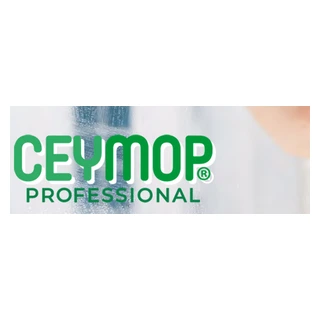
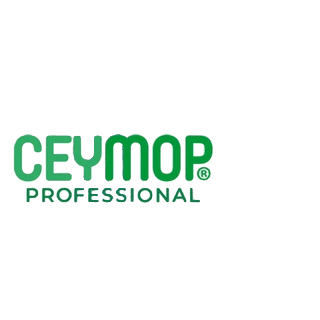
Optimize homepage images and bound business uploads

Changed region(s): [[0.0312, 0.3125, 0.9688, 0.6875], [0.0938, 0.5, 0.1562, 0.5312], [0.0312, 0.5312, 0.0625, 0.5625]]

diff --git a/public/index.html b/public/index.html
@@ -38,7 +38,7 @@
         </div>
         <div class="hero-visual">
           <figure class="hero-frame">
-            <img src="/img/home/refresh-hero.webp" width="1448" height="1086" fetchpriority="high" alt="Katalogdan temizlik, kağıt, aparat, sarf, gıda ve kırtasiye ürünlerinden bir seçki">
+            <img src="/img/home/refresh-hero.webp" srcset="/img/home/refresh-hero-640.webp 640w, /img/home/refresh-hero.webp 1448w" sizes="(max-width: 900px) 92vw, 54vw" width="1448" height="1086" fetchpriority="high" alt="Katalogdan temizlik, kağıt, aparat, sarf, gıda ve kırtasiye ürünlerinden bir seçki">
           </figure>
         </div>
       </div>
@@ -61,7 +61,7 @@
               <a class="btn contact-story-cta" href="https://wa.me/905307161877?text=Merhaba%2C%20sitenizde%20bulamad%C4%B1%C4%9F%C4%B1m%20bir%20%C3%BCr%C3%BCn%20i%C3%A7in%20ara%C5%9Ft%C4%B1rma%20ve%20tedarik%20deste%C4%9Fi%20almak%20istiyorum.%20%C3%9Cr%C3%BCn%20ad%C4%B1n%C4%B1%20veya%20foto%C4%9Fraf%C4%B1n%C4%B1%20payla%C5%9Faca%C4%9F%C4%B1m.">Aradığım Ürünü Paylaşayım <span aria-hidden="true">↗</span></a>
               <p class="contact-story-note">WhatsApp açılır; fotoğrafınızı veya ürün adını oradan paylaşabilirsiniz.</p>
             </div>
-            <div class="contact-story-art"><img src="/img/home/story-research.webp" width="1200" height="900" loading="lazy" alt="Ürün fotoğrafı içeren telefon, ürün kartları ve araştırmayı simgeleyen büyüteç"></div>
+            <div class="contact-story-art"><img src="/img/home/story-research.webp" srcset="/img/home/story-research-640.webp 640w, /img/home/story-research.webp 1200w" sizes="(max-width: 640px) 92vw, (max-width: 1000px) 46vw, 380px" width="1200" height="900" loading="lazy" alt="Ürün fotoğrafı içeren telefon, ürün kartları ve araştırmayı simgeleyen büyüteç"></div>
           </article>
           <article class="contact-story" data-story aria-roledescription="slayt" aria-label="2 / 3: İhtiyaç listesi">
             <div class="contact-story-copy">
@@ -71,7 +71,7 @@
               <a class="btn contact-story-cta" href="https://wa.me/905307161877?text=Merhaba%2C%20i%C5%9Fletmemizin%20ihtiya%C3%A7%20listesini%20payla%C5%9Fmak%20ve%20uygun%20%C3%BCr%C3%BCn%20se%C3%A7enekleri%20i%C3%A7in%20teklif%20almak%20istiyorum.">Listemi WhatsApp’tan Göndereyim <span aria-hidden="true">↗</span></a>
               <p class="contact-story-note">WhatsApp açılır; listenizi mesaj veya dosya olarak paylaşabilirsiniz.</p>
             </div>
-            <div class="contact-story-art"><img src="/img/home/story-list.webp" width="1200" height="900" loading="lazy" alt="İhtiyaç listesini simgeleyen pano ve temizlik, gıda, kırtasiye ürünleri"></div>
+            <div class="contact-story-art"><img src="/img/home/story-list.webp" srcset="/img/home/story-list-640.webp 640w, /img/home/story-list.webp 1200w" sizes="(max-width: 640px) 92vw, (max-width: 1000px) 46vw, 380px" width="1200" height="900" loading="lazy" alt="İhtiyaç listesini simgeleyen pano ve temizlik, gıda, kırtasiye ürünleri"></div>
           </article>
           <article class="contact-story" data-story aria-roledescription="slayt" aria-label="3 / 3: Ürün seçimi">
             <div class="contact-story-copy">
@@ -81,7 +81,7 @@
               <a class="btn contact-story-cta" href="/siparis">İhtiyacımı Birlikte Belirleyelim <span aria-hidden="true">↗</span></a>
               <p class="contact-story-note">Firma ve telefon bilginiz yeterli.</p>
             </div>
-            <div class="contact-story-art"><img src="/img/home/story-guidance.webp" width="1200" height="900" loading="lazy" alt="Tablette ürün seçeneklerini işaret eden el ve görüşmeyi simgeleyen konuşma balonları"></div>
+            <div class="contact-story-art"><img src="/img/home/story-guidance.webp" srcset="/img/home/story-guidance-640.webp 640w, /img/home/story-guidance.webp 1200w" sizes="(max-width: 640px) 92vw, (max-width: 1000px) 46vw, 380px" width="1200" height="900" loading="lazy" alt="Tablette ürün seçeneklerini işaret eden el ve görüşmeyi simgeleyen konuşma balonları"></div>
           </article>
           </div>
           <div class="contact-story-controls" data-story-controls hidden>
@@ -110,27 +110,27 @@
         </header>
         <ul class="home-cat-cards">
           <li><a href="/urunler?g=A">
-            <img class="home-cat-photo" src="/img/home/refresh-kagit.webp" alt="Temizlik Kağıtları ürün seçkisi" width="960" height="640" loading="lazy">
+            <img class="home-cat-photo" src="/img/home/refresh-kagit.webp" srcset="/img/home/refresh-kagit-640.webp 640w, /img/home/refresh-kagit.webp 1024w" sizes="(max-width: 640px) 92vw, (max-width: 1000px) 46vw, 380px" alt="Temizlik Kağıtları ürün seçkisi" width="960" height="640" loading="lazy">
             <div class="home-cat-copy"><h3>Temizlik Kağıtları</h3><p>Havlu, peçete ve tuvalet kağıtları.</p><span>Ürünleri incele <span aria-hidden="true">↗</span></span></div>
           </a></li>
           <li><a href="/urunler?g=B">
-            <img class="home-cat-photo" src="/img/home/refresh-sivi.webp" alt="Sıvı Temizlik Ürünleri ürün seçkisi" width="960" height="640" loading="lazy">
+            <img class="home-cat-photo" src="/img/home/refresh-sivi.webp" srcset="/img/home/refresh-sivi-640.webp 640w, /img/home/refresh-sivi.webp 1024w" sizes="(max-width: 640px) 92vw, (max-width: 1000px) 46vw, 380px" alt="Sıvı Temizlik Ürünleri ürün seçkisi" width="960" height="640" loading="lazy">
             <div class="home-cat-copy"><h3>Sıvı Temizlik Ürünleri</h3><p>Günlük ve endüstriyel temizlik ihtiyaçları.</p><span>Ürünleri incele <span aria-hidden="true">↗</span></span></div>
           </a></li>
           <li><a href="/urunler?g=C">
-            <img class="home-cat-photo" src="/img/home/refresh-aparat.webp" alt="Aparatlar ve Ekipmanlar ürün seçkisi" width="960" height="640" loading="lazy">
+            <img class="home-cat-photo" src="/img/home/refresh-aparat.webp" srcset="/img/home/refresh-aparat-640.webp 640w, /img/home/refresh-aparat.webp 1024w" sizes="(max-width: 640px) 92vw, (max-width: 1000px) 46vw, 380px" alt="Aparatlar ve Ekipmanlar ürün seçkisi" width="960" height="640" loading="lazy">
             <div class="home-cat-copy"><h3>Aparatlar ve Ekipmanlar</h3><p>Dispenser, mop aparatları ve çöp kovaları.</p><span>Ürünleri incele <span aria-hidden="true">↗</span></span></div>
           </a></li>
           <li><a href="/urunler?g=D">
-            <img class="home-cat-photo" src="/img/home/refresh-sarf.webp" alt="Temizlik Sarf Ürünleri ürün seçkisi" width="960" height="640" loading="lazy">
+            <img class="home-cat-photo" src="/img/home/refresh-sarf.webp" srcset="/img/home/refresh-sarf-640.webp 640w, /img/home/refresh-sarf.webp 1024w" sizes="(max-width: 640px) 92vw, (max-width: 1000px) 46vw, 380px" alt="Temizlik Sarf Ürünleri ürün seçkisi" width="960" height="640" loading="lazy">
             <div class="home-cat-copy"><h3>Temizlik Sarf Ürünleri</h3><p>Çöp poşetleri, sarf ve kullan-at ürünleri.</p><span>Ürünleri incele <span aria-hidden="true">↗</span></span></div>
           </a></li>
           <li><a href="/urunler?g=E">
-            <img class="home-cat-photo" src="/img/home/refresh-gida.webp" alt="Gıda ve Atıştırmalıklar ürün seçkisi" width="960" height="640" loading="lazy">
+            <img class="home-cat-photo" src="/img/home/refresh-gida.webp" srcset="/img/home/refresh-gida-640.webp 640w, /img/home/refresh-gida.webp 1024w" sizes="(max-width: 640px) 92vw, (max-width: 1000px) 46vw, 380px" alt="Gıda ve Atıştırmalıklar ürün seçkisi" width="960" height="640" loading="lazy">
             <div class="home-cat-copy"><h3>Gıda ve Atıştırmalıklar</h3><p>Çay, kahve, içecek ve ikramlıklar.</p><span>Ürünleri incele <span aria-hidden="true">↗</span></span></div>
           </a></li>
           <li><a href="/urunler?g=F">
-            <img class="home-cat-photo" src="/img/home/refresh-ofis.webp" alt="Kırtasiye ve Ofis Ürünleri ürün seçkisi" width="960" height="640" loading="lazy">
+            <img class="home-cat-photo" src="/img/home/refresh-ofis.webp" srcset="/img/home/refresh-ofis-640.webp 640w, /img/home/refresh-ofis.webp 1024w" sizes="(max-width: 640px) 92vw, (max-width: 1000px) 46vw, 380px" alt="Kırtasiye ve Ofis Ürünleri ürün seçkisi" width="960" height="640" loading="lazy">
             <div class="home-cat-copy"><h3>Kırtasiye ve Ofis Ürünleri</h3><p>Yazı, dosyalama ve masaüstü gereçleri.</p><span>Ürünleri incele <span aria-hidden="true">↗</span></span></div>
           </a></li>
         </ul>
@@ -165,7 +165,7 @@
         <ul class="home-sector-cards">
           <li>
             <a href="/sektorler#konaklama">
-              <img class="home-sector-photo" src="/img/home/sektor-otel.webp" alt="" width="1024" height="765" loading="lazy">
+              <img class="home-sector-photo" src="/img/home/sektor-otel.webp" srcset="/img/home/sektor-otel-640.webp 640w, /img/home/sektor-otel.webp 1024w" sizes="(max-width: 640px) 92vw, (max-width: 1000px) 46vw, 380px" alt="" width="1024" height="765" loading="lazy">
               <b>Oteller</b>
               <p>Oda, ortak alan ve ikram ihtiyaçları.</p>
               <span>Çözümleri İncele</span>
@@ -173,7 +173,7 @@
           </li>
           <li>
             <a href="/sektorler#tesis">
-              <img class="home-sector-photo" src="/img/home/sektor-tesis.webp" alt="" width="1024" height="765" loading="lazy">
+              <img class="home-sector-photo" src="/img/home/sektor-tesis.webp" srcset="/img/home/sektor-tesis-640.webp 640w, /img/home/sektor-tesis.webp 1024w" sizes="(max-width: 640px) 92vw, (max-width: 1000px) 46vw, 380px" alt="" width="1024" height="765" loading="lazy">
               <b>Site ve Tesis Yönetimi</b>
               <p>Ortak alan temizliği, sarf ve ekipman.</p>
               <span>Çözümleri İncele</span>
@@ -181,7 +181,7 @@
           </li>
           <li>
             <a href="/sektorler#ofis">
-              <img class="home-sector-photo" src="/img/home/sektor-ofis.webp" alt="" width="1024" height="765" loading="lazy">
+              <img class="home-sector-photo" src="/img/home/sektor-ofis.webp" srcset="/img/home/sektor-ofis-640.webp 640w, /img/home/sektor-ofis.webp 1024w" sizes="(max-width: 640px) 92vw, (max-width: 1000px) 46vw, 380px" alt="" width="1024" height="765" loading="lazy">
               <b>Ofisler</b>
               <p>Çay, kahve, kırtasiye ve hijyen ürünleri.</p>
               <span>Çözümleri İncele</span>
@@ -189,7 +189,7 @@
           </li>
           <li>
             <a href="/sektorler#klinik">
-              <img class="home-sector-photo" src="/img/home/sektor-klinik.webp" alt="" width="1024" height="765" loading="lazy">
+              <img class="home-sector-photo" src="/img/home/sektor-klinik.webp" srcset="/img/home/sektor-klinik-640.webp 640w, /img/home/sektor-klinik.webp 1024w" sizes="(max-width: 640px) 92vw, (max-width: 1000px) 46vw, 380px" alt="" width="1024" height="765" loading="lazy">
               <b>Hastaneler ve Klinikler</b>
               <p>Genel alan temizliği ve günlük sarf ürünleri.</p>
               <span>Çözümleri İncele</span>
@@ -197,7 +197,7 @@
           </li>
           <li>
             <a href="/sektorler#egitim">
-              <img class="home-sector-photo" src="/img/home/sektor-okul.webp" alt="" width="1024" height="765" loading="lazy">
+              <img class="home-sector-photo" src="/img/home/sektor-okul.webp" srcset="/img/home/sektor-okul-640.webp 640w, /img/home/sektor-okul.webp 1024w" sizes="(max-width: 640px) 92vw, (max-width: 1000px) 46vw, 380px" alt="" width="1024" height="765" loading="lazy">
               <b>Okullar</b>
               <p>Sınıf, idari ofis ve ortak alan ihtiyaçları.</p>
               <span>Çözümleri İncele</span>
@@ -205,7 +205,7 @@
           </li>
           <li>
             <a href="/sektorler#kafe">
-              <img class="home-sector-photo" src="/img/home/sektor-cafe.webp" alt="" width="1024" height="765" loading="lazy">
+              <img class="home-sector-photo" src="/img/home/sektor-cafe.webp" srcset="/img/home/sektor-cafe-640.webp 640w, /img/home/sektor-cafe.webp 1024w" sizes="(max-width: 640px) 92vw, (max-width: 1000px) 46vw, 380px" alt="" width="1024" height="765" loading="lazy">
               <b>Kafe ve Restoranlar</b>
               <p>Servis, kullan-at ve temizlik ürünleri.</p>
               <span>Çözümleri İncele</span>
@@ -297,7 +297,7 @@
   <footer class="foot" data-foot></footer>
   <script src="/interest.js?v=69"></script>
   <script src="/metrics.js?v=1"></script>
-  <script src="/site.js?v=141"></script>
+  <script src="/site.js?v=142"></script>
   <script src="/home-refresh.js?v=3"></script>
   <script>FerraInterest.mount();</script>
 </body>

diff --git a/public/iletisim.html b/public/iletisim.html
@@ -30,6 +30,6 @@
 </div><section class="sales-note"><h2>Şirket bilgileri</h2><p>Viva Grup Turizm İnşaat Sanayi ve Ticaret Limited Şirketi</p><p>Armağanevler Mah. Ortanca Sk. Keskin No: 43 A, Ümraniye / İstanbul</p></section><section class="sales-note"><h2>Neye ihtiyacınız olduğunu birlikte netleştirelim.</h2><p>Firma ve telefon bilgilerinizi bırakmanız yeterli. Ürün, miktar ve teslimat ilçesini isterseniz ekleyebilirsiniz.</p><a class="btn" href="/siparis">Teklif Al</a></section><section class="sales-faq" aria-labelledby="faq-title"><p class="eyebrow">Aklınızdaki sorular</p><h2 id="faq-title">Teklif öncesi bilmeniz gerekenler</h2><details><summary>Nasıl fiyat teklifi alabilirim?</summary><p>İlgilendiğiniz ürünleri teklif listenize ekleyin ve iletişim bilgilerinizi bırakın. Ürün seçmeden de görüşme talebi gönderebilirsiniz; miktar belirtmek zorunlu değildir.</p></details><details><summary>Birden fazla ürün için teklif isteyebilir miyim?</summary><p>Evet. Ürünleri veya ürün gruplarını teklif listenize ekleyip tek taleple gönderebilirsiniz. Miktar ve özellikleri görüşmede birlikte netleştirebiliriz.</p></details><details><summary>Teslimat bölgeniz neresi?</summary><p>Ümraniye merkezli olarak İstanbul içi tedarik taleplerini değerlendiriyoruz. Teslimat ilçenizi talebinize ekleyin; adresinize uygun teslimat koşullarını teklif sırasında birlikte netleştirelim.</p></details><details><summary>Minimum miktar ve teslimat süresi nedir?</summary><p>Miktar, stok uygunluğu, teslimat süresi ve varsa teslimat bedeli ürün ve talep bazında netleştirilir. İhtiyacınız olan tarihi talebinizde belirtebilirsiniz.</p></details><details><summary>Katalogda bulamadığım bir ürünü sorabilir miyim?</summary><p>Ürünün adını, özelliklerini ve miktarını teklif formunda paylaşabilirsiniz. Tedarik uygunluğunu birlikte değerlendirelim.</p></details><details><summary>Form göndermek sipariş vermek anlamına mı geliyor?</summary><p>Form bir teklif talebidir. Fiyat, ödeme ve teslimat koşulları ayrıca netleştirilir; form üzerinden ödeme alınmaz.</p></details></section></div></main>
 <footer class="foot" data-foot></footer><script src="/interest.js?v=69"></script>
   <script src="/metrics.js?v=1"></script>
-  <script src="/site.js?v=141"></script>
+  <script src="/site.js?v=142"></script>
   <script>FerraInterest.mount();</script>
 </body></html>

diff --git a/src/isleyis-store.js b/src/isleyis-store.js
@@ -4,6 +4,24 @@ const TYPES = new Set(['vergi-levhasi', 'imza-sirkuleri', 'ticaret-sicil', 'sozl
 const HAREKET = new Set(['gelir', 'gider', 'harcama', 'siparis']);
 const DURUM = new Set(['beklemede', 'tamamlandi', 'iptal']);
 
+// Bound the actual stream before JSON/multipart parsers allocate the whole body.
+async function boundedRequest(request, limit) {
+  const tooLarge = () => Object.assign(new Error('İstek boyut sınırını aşıyor'), {status:413});
+  if (Number(request.headers.get('content-length') || 0) > limit) throw tooLarge();
+  if (!request.body) return request;
+  const reader=request.body.getReader(), chunks=[];
+  let size=0;
+  while(true){
+    const {done,value}=await reader.read(); if(done) break;
+    size+=value.byteLength;
+    if(size>limit){await reader.cancel();throw tooLarge();}
+    chunks.push(value);
+  }
+  const body=new Uint8Array(size);let offset=0;
+  for(const chunk of chunks){body.set(chunk,offset);offset+=chunk.byteLength;}
+  return new Request(request.url,{method:request.method,headers:request.headers,body});
+}
+
 function emptyState() {
   return { revision: 0, partners: [], movements: [], documents: [] };
 }
@@ -23,6 +41,7 @@ export class IsleyisStore {
       { status, headers: { 'cache-control': 'no-store', ...(extra.headers || { 'content-type': 'application/json; charset=utf-8' }) } },
     );
     try {
+      if (request.method === 'POST') request = await boundedRequest(request, path.endsWith('/evrak') ? MAX_DOC + 64 * 1024 : 64 * 1024);
       if (request.method === 'GET' && path.endsWith('/durum')) {
         const state = await this.storage.get('state') || emptyState();
         return reply({ ...state, documents: (state.documents || []).map(d => ({ ...d, hasFile: true })) });
@@ -148,7 +167,7 @@ export class IsleyisStore {
       }
       return reply({ error: 'Yöntem desteklenmiyor' }, 405);
     } catch (err) {
-      return reply({ error: err.message || 'Kayıt hatası' }, 400);
+      return reply({ error: err.message || 'Kayıt hatası' }, err.status === 413 ? 413 : 400);
     }
   }
 

diff --git a/public/404.html b/public/404.html
@@ -1,2 +1,2 @@
 <!doctype html><html lang="tr"><head><meta charset="utf-8"><meta name="viewport" content="width=device-width,initial-scale=1"><meta name="robots" content="noindex,follow"><title>Sayfa bulunamadı · FerraPro</title><link rel="stylesheet" href="/site.css?v=82"><link rel="stylesheet" href="/inner.css?v=99"></head><body class="inner"><header class="head" data-head="/404"></header><main class="wrap page"><p>404 · Sayfa bulunamadı</p><h1>Aradığınız sayfa burada değil.</h1><p>Ürün kataloğuna dönebilir veya ihtiyacınızı bize iletebilirsiniz. Katalogda bulamadığınız ürünler için de araştırma desteği sunuyoruz.</p><div class="product-detail-actions"><a class="btn" href="/urunler">Ürünleri inceleyin</a><a class="btn ghost" href="/siparis">Görüşme talebi bırakın</a></div></main><footer class="foot" data-foot></footer><script src="/interest.js?v=69"></script>
-  <script src="/metrics.js?v=1"></script><script src="/site.js?v=141"></script><script>FerraInterest.mount();</script></body></html>
+  <script src="/metrics.js?v=1"></script><script src="/site.js?v=142"></script><script>FerraInterest.mount();</script></body></html>

diff --git a/public/sektorler.html b/public/sektorler.html
@@ -52,6 +52,6 @@
 <section class="sales-note"><h2>İşletmeniz bu listede yok mu?</h2><p>Ürün gruplarımızı inceleyebilir veya ihtiyaç listenizi doğrudan paylaşabilirsiniz. Yalnızca firma ve telefon bilgilerinizi bırakmanız yeterlidir. Ürün, miktar ve teslimat ilçesi isteğe bağlıdır.</p><a class="btn" href="/siparis">İhtiyacınızı paylaşın</a></section></div></main>
 <footer class="foot" data-foot></footer><script src="/interest.js?v=69"></script>
   <script src="/metrics.js?v=1"></script>
-  <script src="/site.js?v=141"></script>
+  <script src="/site.js?v=142"></script>
   <script>FerraInterest.mount();</script>
 </body></html>

diff --git a/public/site.js b/public/site.js
@@ -124,7 +124,7 @@ const POPULER_MARKALAR = {
   D: [
     { ad: "Koroplast", logo: "/img/brands/koroplast.webp" },
     { ad: "Parex", logo: "/img/brands/parex.webp" },
-    { ad: "Ceymop", logo: "/img/brands/ceymop.webp" },
+    { ad: "Ceymop", logo: "/img/brands/ceymop.webp?v=2" },
     { ad: "Ozopak", logo: "/img/brands/ozopak.webp?v=2" },
     { ad: "Vileda", logo: "/img/brands/vileda.webp" },
     { ad: "Scotch-Brite", logo: "/img/brands/scotchbrite.webp" },

diff --git a/public/urunler.html b/public/urunler.html
@@ -49,7 +49,7 @@
   <footer class="foot" data-foot></footer>
   <script src="/interest.js?v=69"></script>
   <script src="/metrics.js?v=1"></script>
-  <script src="/site.js?v=141"></script>
+  <script src="/site.js?v=142"></script>
   <script>FerraInterest.mount();</script>
   <script src="/catalog-ui.js?v=104"></script>
 </body>

diff --git a/public/hakkimizda.html b/public/hakkimizda.html
@@ -31,7 +31,7 @@
   <footer class="foot" data-foot></footer>
   <script src="/interest.js?v=69"></script>
   <script src="/metrics.js?v=1"></script>
-  <script src="/site.js?v=141"></script>
+  <script src="/site.js?v=142"></script>
   <script>FerraInterest.mount();</script>
 </body>
 </html>

diff --git a/public/kvkk.html b/public/kvkk.html
@@ -46,7 +46,7 @@
   <footer class="foot" data-foot></footer>
   <script src="/interest.js?v=69"></script>
   <script src="/metrics.js?v=1"></script>
-  <script src="/site.js?v=141"></script>
+  <script src="/site.js?v=142"></script>
   <script>FerraInterest.mount();</script>
 </body>
 </html>

diff --git a/public/referanslar.html b/public/referanslar.html
@@ -51,7 +51,7 @@
   <footer class="foot" data-foot></footer>
   <script src="/interest.js?v=69"></script>
   <script src="/metrics.js?v=1"></script>
-  <script src="/site.js?v=141"></script>
+  <script src="/site.js?v=142"></script>
   <script>FerraInterest.mount();</script>
 </body>
 </html>

diff --git a/public/siparis.html b/public/siparis.html
@@ -75,7 +75,7 @@
   <footer class="foot" data-foot></footer>
   <script src="/interest.js?v=69"></script>
   <script src="/metrics.js?v=1"></script>
-  <script src="/site.js?v=141"></script>
+  <script src="/site.js?v=142"></script>
   <script>FerraInterest.mount();</script>
 </body>
 </html>

diff --git a/docs/HANDOFF.md b/docs/HANDOFF.md
@@ -1904,7 +1904,7 @@ Klavye sürümü canlı: cf1ef5e, Cloudflare9be65c92-587f-46f5-8f5d-7c9d95992b43
 - 33 tip (adaptör, boş şişirme, bazı Still sensör ve ZMR yedekleri) Palex sitesinde görsel bulunamadığı için eklenmedi.
 - PDF beyaz/standart maliyetleri PRICE_STORE’a yazıldı (revizyon 14); kırtasiye Derya maliyetleri korundu. Excel içe aktarma bekliyor.
 - Yalıtılmış yayın: canlı worker tabanı (ManagementSessions/METRICS yok) + katalog, sitemap, Palex WebP ve yönetim catalog.json. Ferranoi paneli değişmedi. `--keep-vars`.
-- Aktif Cloudflare sürümü: c42e675c-a39c-4e80-9944-22031ef94210 (%100). ferrapro.com halka açık sayfalar kapanış metnine alındı; /yonetim, katalog JSON ve görseller yönetim için açık. tedarik.ferranoi.com açık. Önceki kapanış denemesi a0883b21; ondan önceki e6925970.
+- Aktif Cloudflare sürümü: a5fe1224-a23d-4e6b-bfc6-b59be7bfa975 (%100). Kapanış kaldırıldı; ferrapro.com yine katalog ve teklif sayfalarını gösteriyor. Önceki kapanış: c42e675c.
 - npm run check PASS (630). Canlı Havlu Aparatları’nda geri dönüşüm yok; Çöp Kovaları’nda üç Palex geri dönüşüm satırı var. Gerçek talep gönderilmedi.
 
 ## 8 Ekim 2026 — Üç kategori rehberi ve masaüstü yerleşimi (yayınlanmadı)
@@ -1950,3 +1950,14 @@ Klavye sürümü canlı: cf1ef5e, Cloudflare9be65c92-587f-46f5-8f5d-7c9d95992b43
 - Yayın öncesinde v4 migration / MANAGEMENT_SESSIONS / YONETIM_RATE_LIMITER doğrulanmalı; eski işleyiş çerezleri yeni sürümde geçersizleşir ve yeniden giriş gerekir. Önceki YONETIM_PASSWORD, uzak METRICS ve canlı panel dosyalarını uzlaştırma gereklilikleri devam eder. Gerçek Cloudflare giriş/çıkış ve kayıt okuma kontrolü yayın sonrası ayrıca yapılmalı.
 - Eşzamanlı Cursor dosyaları (.cursor/rules/ferrapro.mdc, public/app.js, public/panel/index.html) ve eski izlenmeyen ilerleme/selection dosyaları bu çalışmaya alınmadı.
 - Sonraki: Ceymop marka görselindeki krem fon ve kalan görsel taraması; mobil hız ölçümü ve Google görünürlük. İşleyiş dosya yükleme boyut sınırının gövde okunmadan uygulanması ayrıca değerlendirilmeli (mevcut 8 MB kontrolü formData sonrasında).
+
+## 13 Ekim 2026 — Logo, mobil görseller ve yükleme sınırı (YAYINLANMADI)
+
+- Ceymop logosunun fotoğraflı arka parçası piksel maskesiyle kaldırıldı. Yeşil yazı ve işaret korundu, zemin beyaz; yeniden çizim/üretken görsel kullanılmadı. Logo v2, site.js v142.
+- 65 marka görseli toplu önizlemede incelendi (output/brand-audit-2026-10-13.jpg). Ceymop tamamlandı; Asperox, Fairy, Finish, Polente ve Pril gibi bazı dosyalarda hafif gri dikdörtgenler, Selpak dosyasında köşe izleri hâlâ var. Bunlar temiz kaynak/maskeyle ayrı ele alınmalı; bütün görsellerin temizliği bitmiş değildir.
+- Ana sayfanın 16 hero/kategori/hizmet/sektör görseline 640 px WebP türevleri ve srcset/sizes eklendi. Tam boy kaynaklar korunur. Bu 16 kaynak toplam 2.388.990 bayt; küçük sürümleri 882.368 bayt (%63,1 azalma). Bu dosya toplamı karşılaştırmasıdır; sayfa yüklenme süresi veya Core Web Vitals sonucu değildir. Yüksek piksel yoğunluğunda tarayıcı büyük sürümü seçebilir.
+- Yerel tarayıcı 390 px: hero ve yüklenen kategori görselleri -640.webp seçiyor; genişlik/scroll 375/375. 1280 px ana sayfa: 1265/1265, yüklenmiş kırık görsel yok; hero tam boy seçiliyor. D kategorisinde Ceymop v2 yüklü, yatay taşma yok. Kanıt: output/home-mobile-2026-10-13.png, output/ceymop-desktop-2026-10-13.png.
+- İşleyiş POST gövdeleri JSON için 64 KiB, evrak için 8 MiB + 64 KiB multipart payıyla gerçek akış okunurken sınırlanır. Aşan akış iptal edilir, parser/depo erişiminden önce 413 döner. Tek dosya 8 MiB sınırı ayrıca korunur. Böylece yanlış veya eksik Content-Length ile sınırsız formData okuma engellenir.
+- npm run check PASS: mevcut işleyiş yükleme/kayıt işlemleri; yeni sonsuz akış iptali, üç endpoint için başlık ve gerçek bayt sınırları; bütün mevcut katalog/yönetim/güvenlik kontrolleri geçti. Gerçek müşteri kaydı, şifre veya bildirim kullanılmadı.
+- Canlı yayın YOK; PUBLIC_SITE_CLOSED=true değişmedi. Cursor panel/app değişiklikleri korunup commit dışında bırakıldı.
+- Kalanlar: diğer marka fonları/ürün görselleri, kontrollü mobil hız ölçümü, Search Console erişimi ve yayın sonrası indeksleme kontrolü; önceki güvenli Cloudflare ayarları ve panel sürüm uzlaştırması; onaylı yayın ve gerçek giriş/fiyat kalıcılığı/bildirim kontrolleri.
